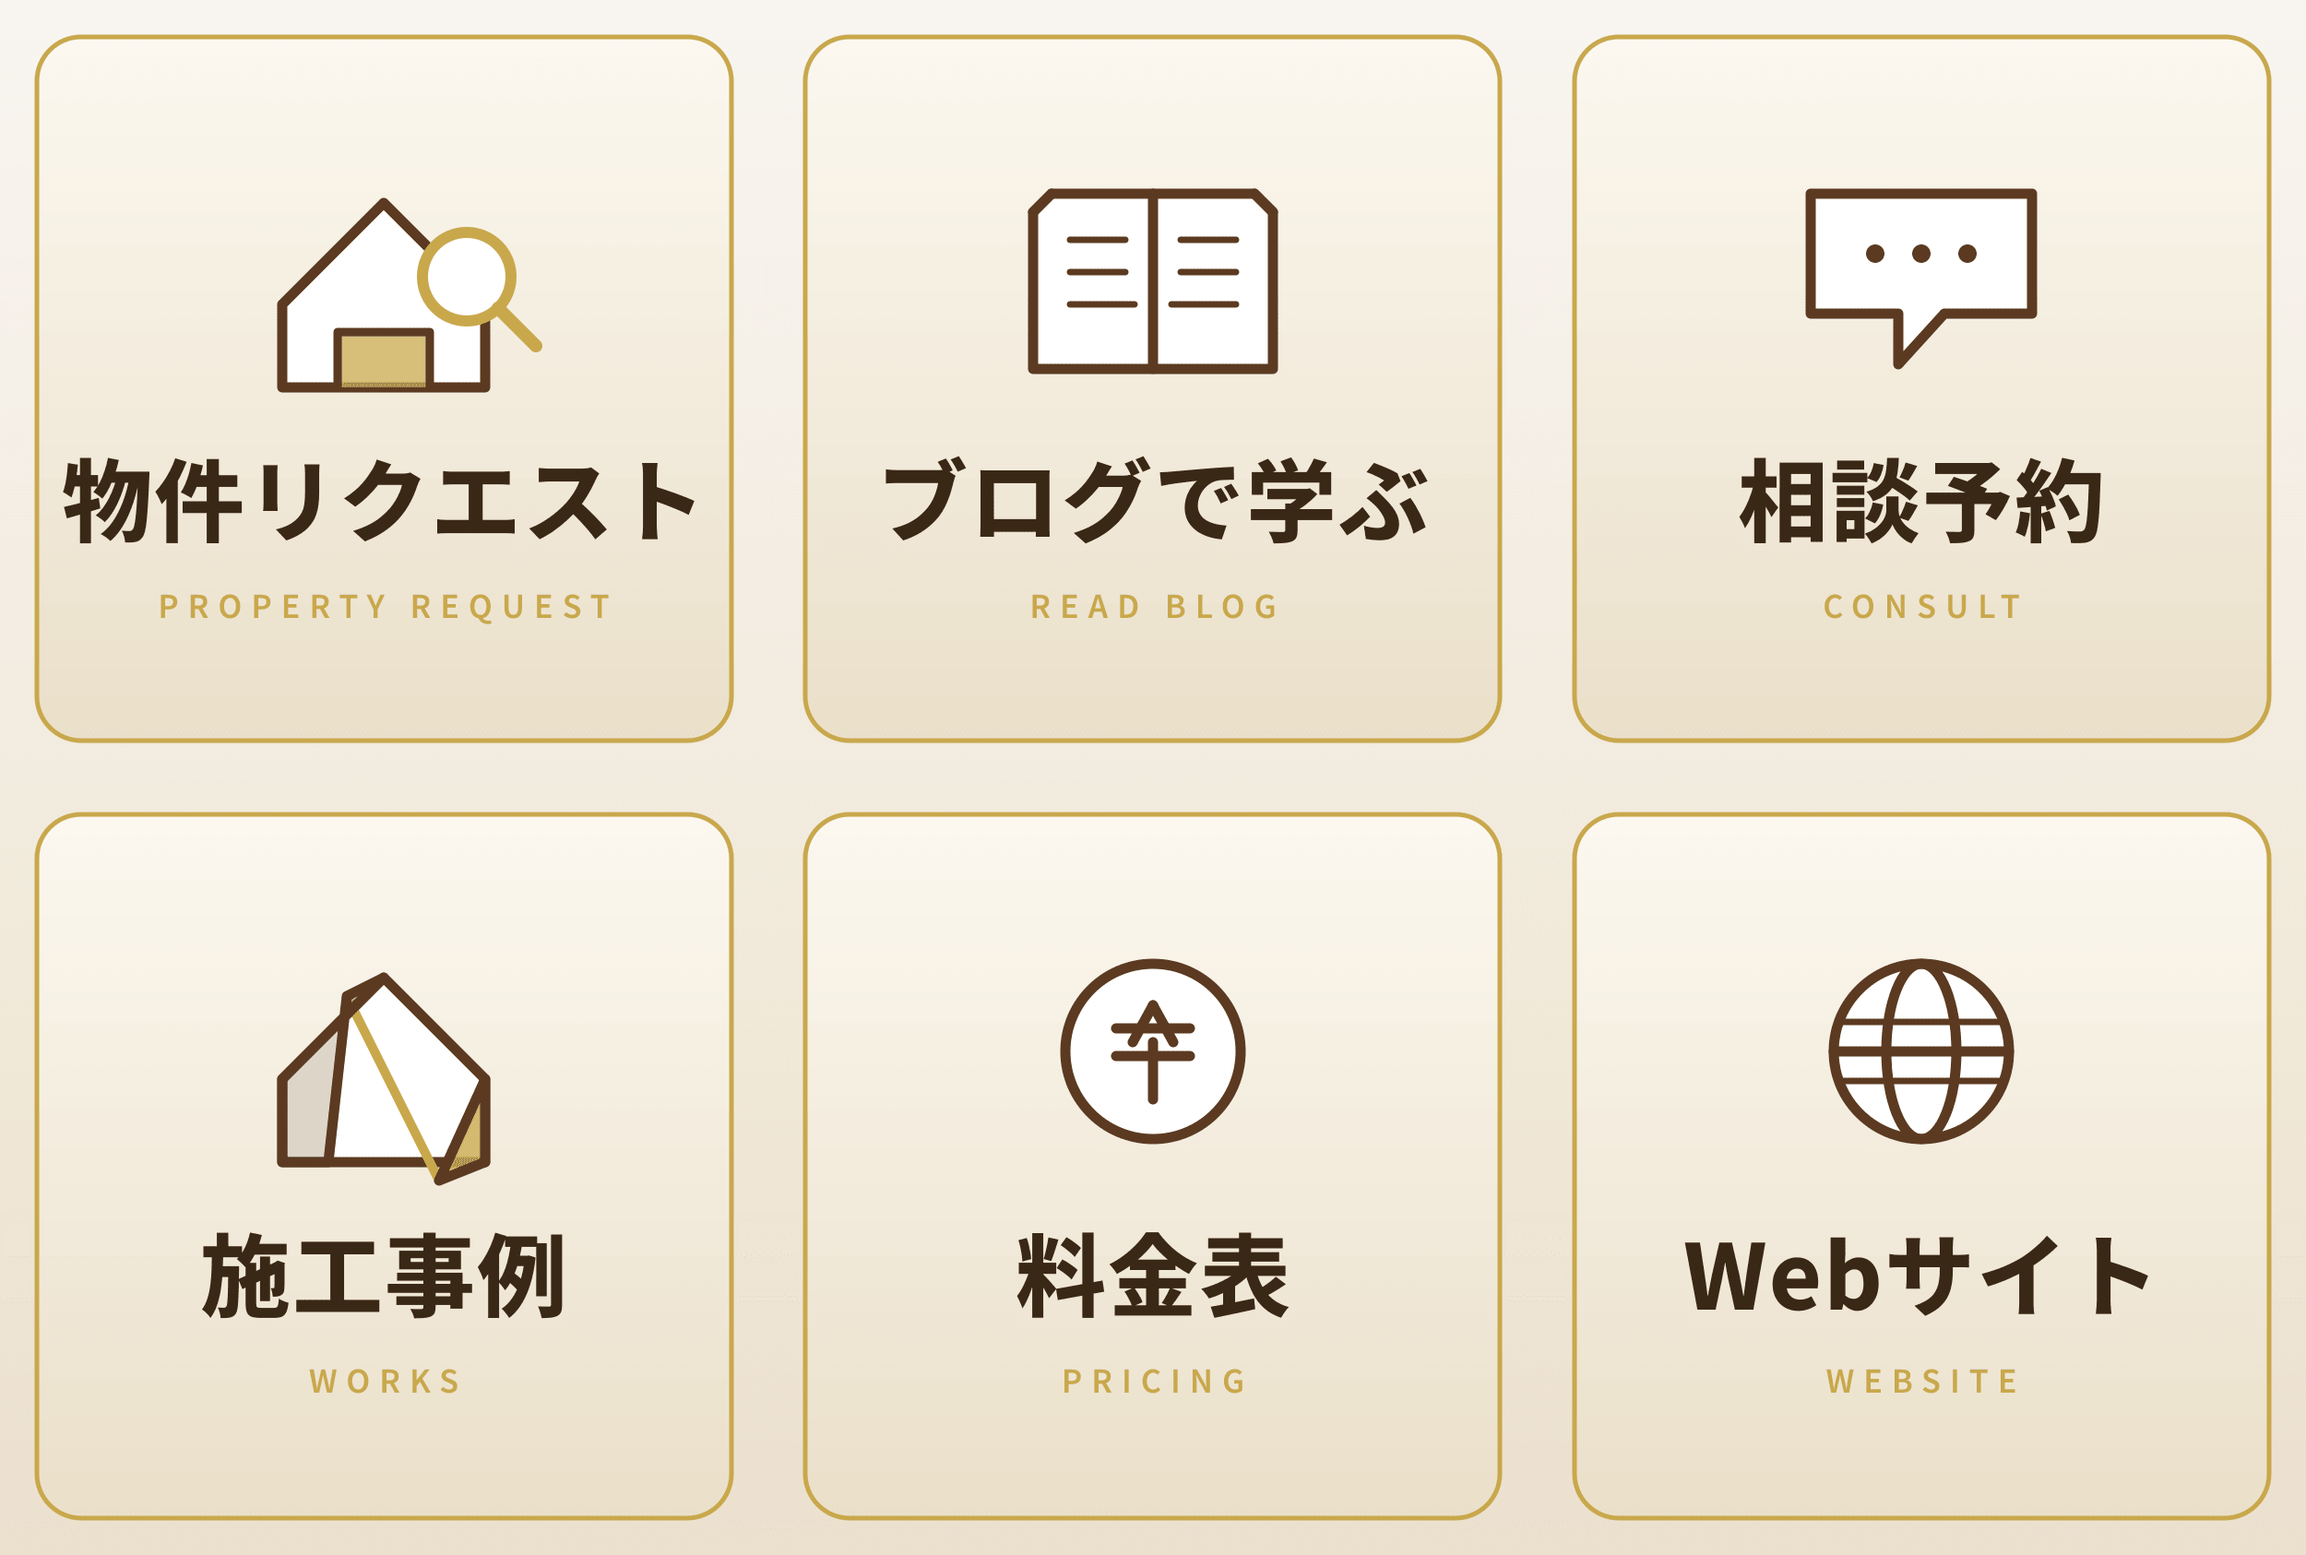
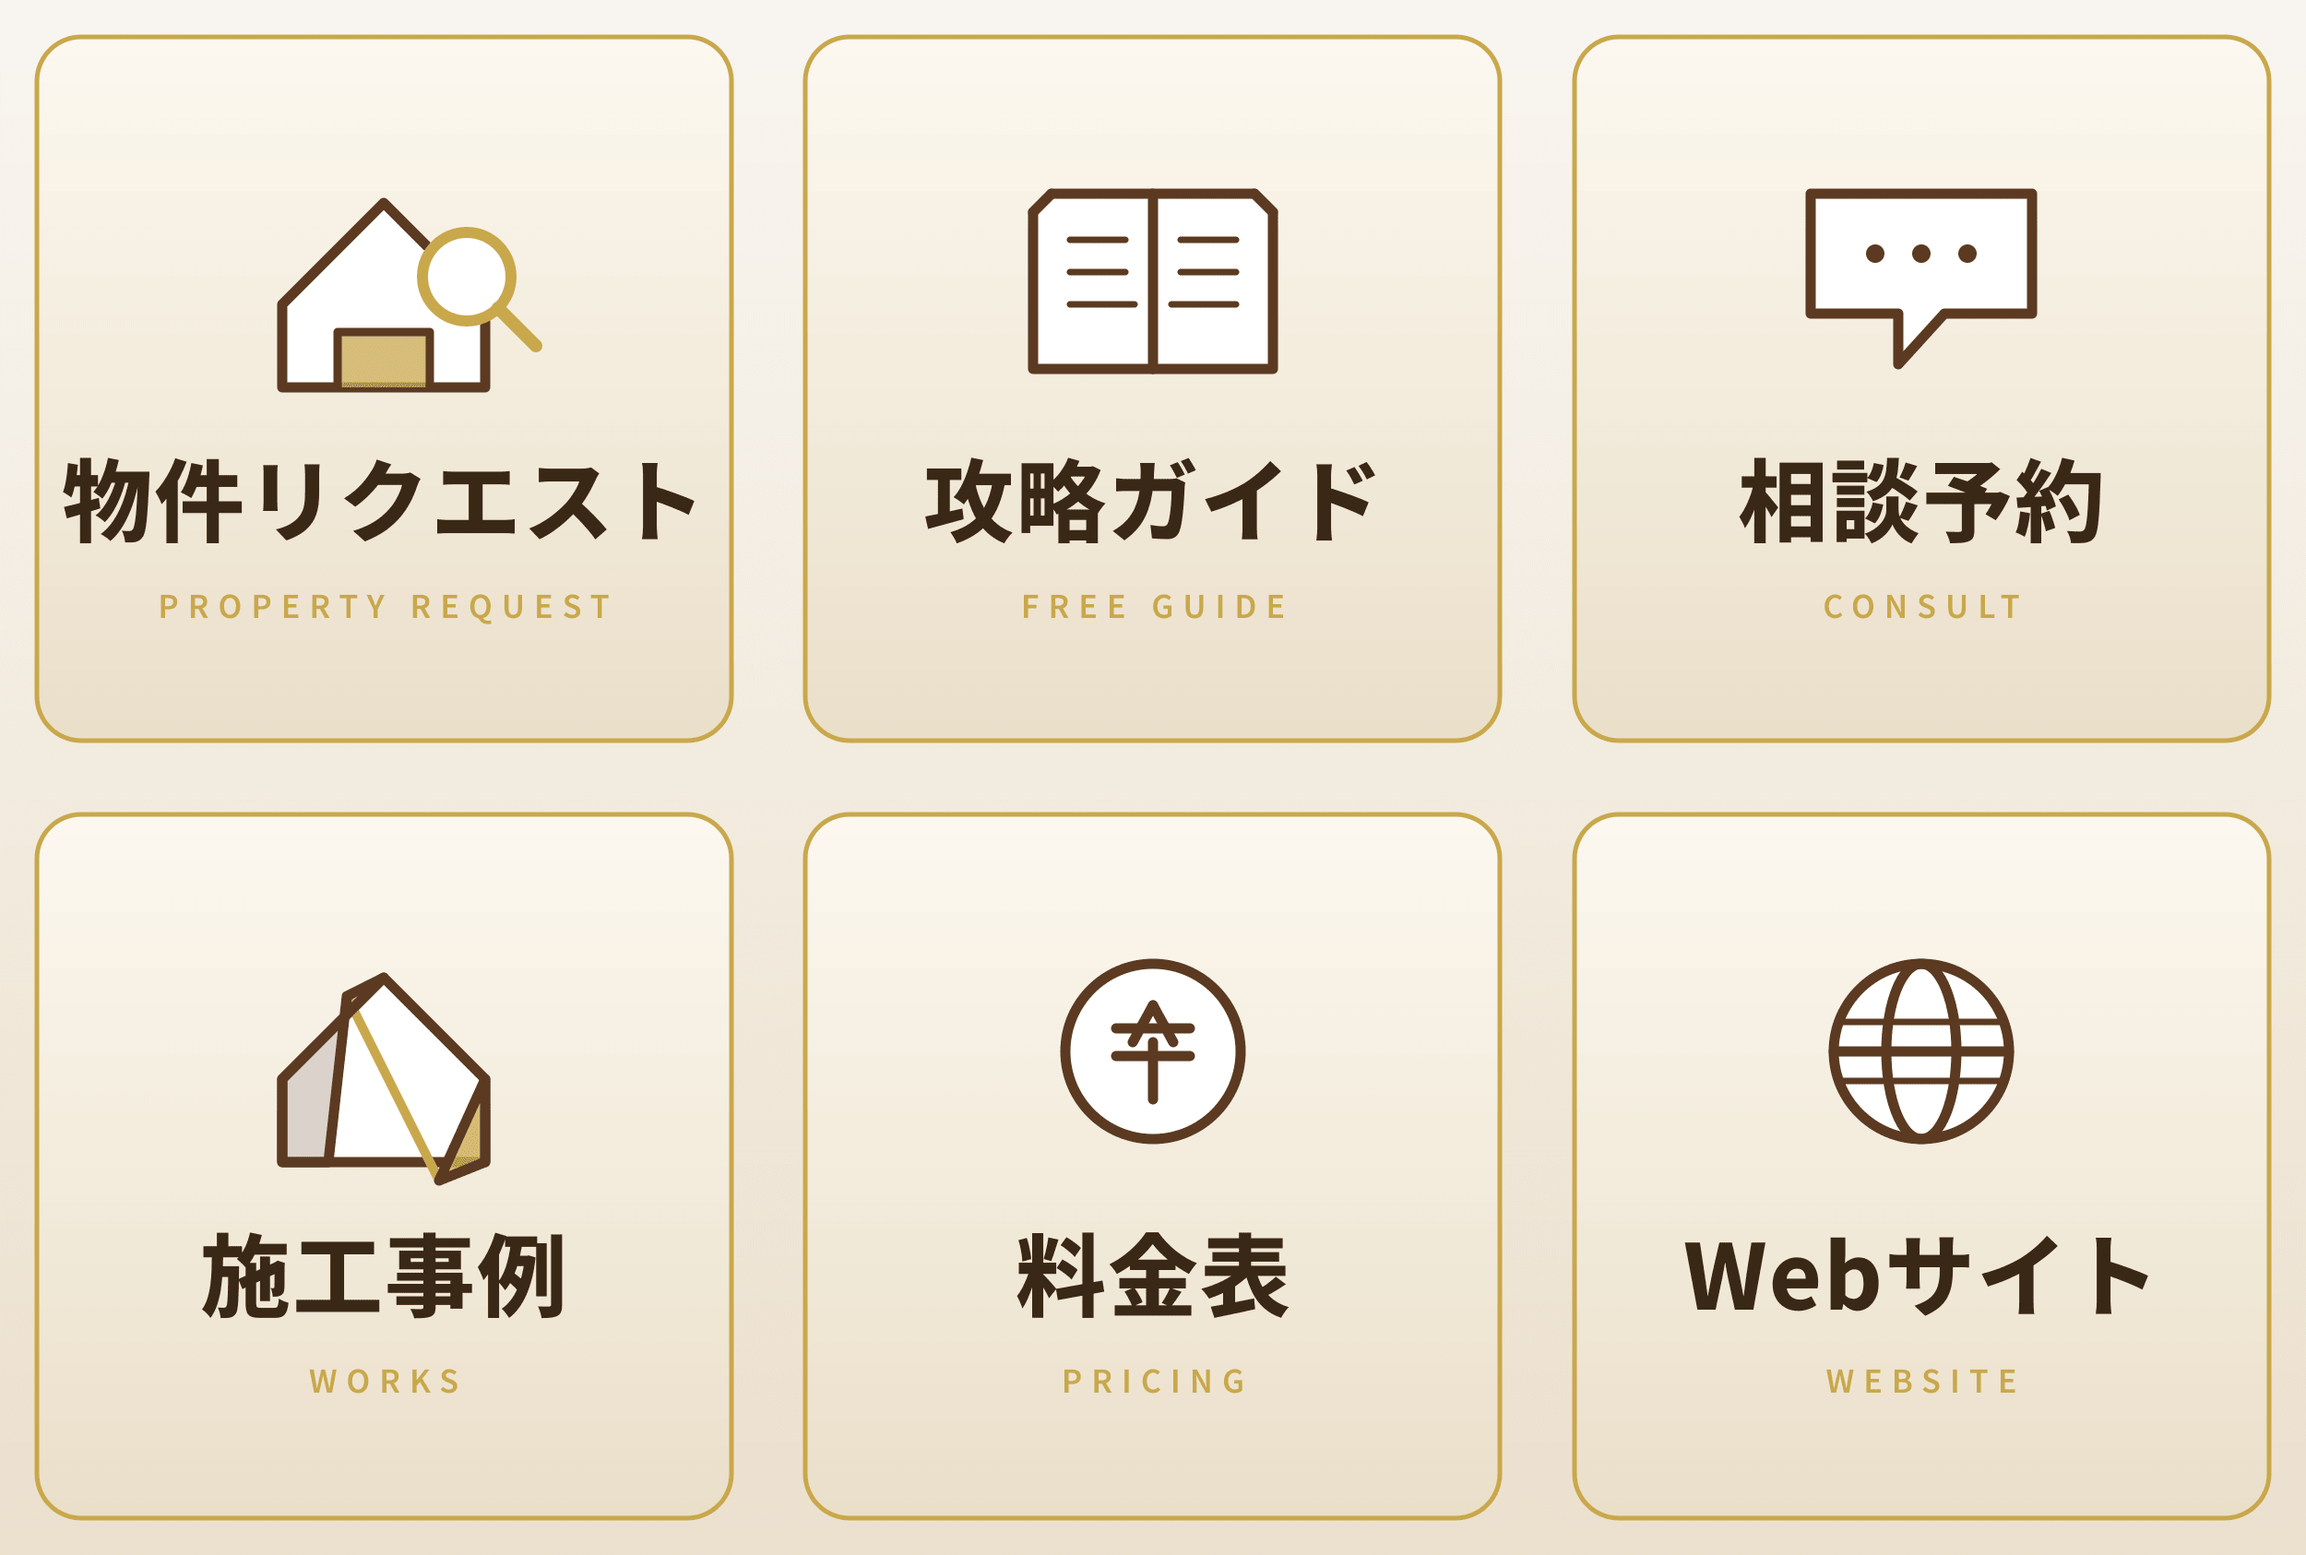
リッチメニュー：中央上タイルを「ブログで学ぶ」→「攻略ガイド」に
満室デザインLABO のリッチメニューとラベルを揃え、2つのブランドで
LINE ユーザーが同じ位置に同じラベルのタイルを見る形に統一。

リンク先は「未公開物件＝お宝は本当か？」ブログ記事のまま変更なし。
ガイドの実体はブログ記事という位置付けを維持。

Changed region(s): [[0.3744, 0.2776, 0.624, 0.4009]]

diff --git a/docs/line-setup-output/rich-menu-mapping.md b/docs/line-setup-output/rich-menu-mapping.md
@@ -9,7 +9,7 @@
 | 位置 | タイル名 | アクション種別 | 値 |
 |---|---|---|---|
 | 1行目・左 | 物件リクエスト | テキスト送信 or LINEチャット入力 | `物件情報を送ります：\n・エリア：\n・坪数：\n・家賃上限：\n・業種：` |
-| 1行目・中 | ブログで学ぶ | URLリンク | `https://kiokuso.jp/studio/articles/mikoukai-bukken-uragawa` |
+| 1行目・中 | 攻略ガイド | URLリンク | `https://kiokuso.jp/studio/articles/mikoukai-bukken-uragawa` |
 | 1行目・右 | 相談予約 | テキスト送信 | `相談したいです` |
 | 2行目・左 | 施工事例 | URLリンク | `https://kiokuso.jp/studio/works` |
 | 2行目・中 | 料金表 | URLリンク | `https://kiokuso.jp/studio/pricing` |
